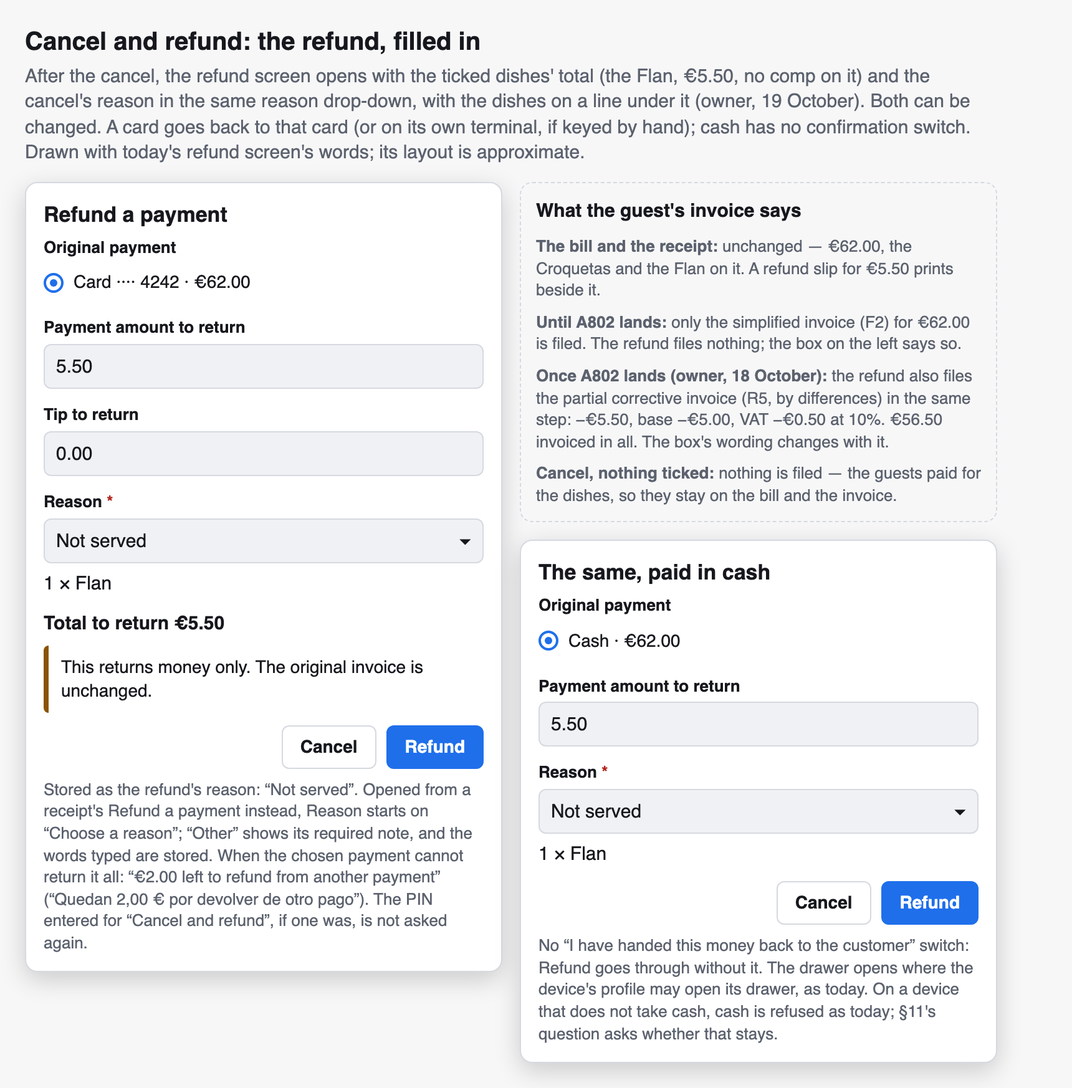
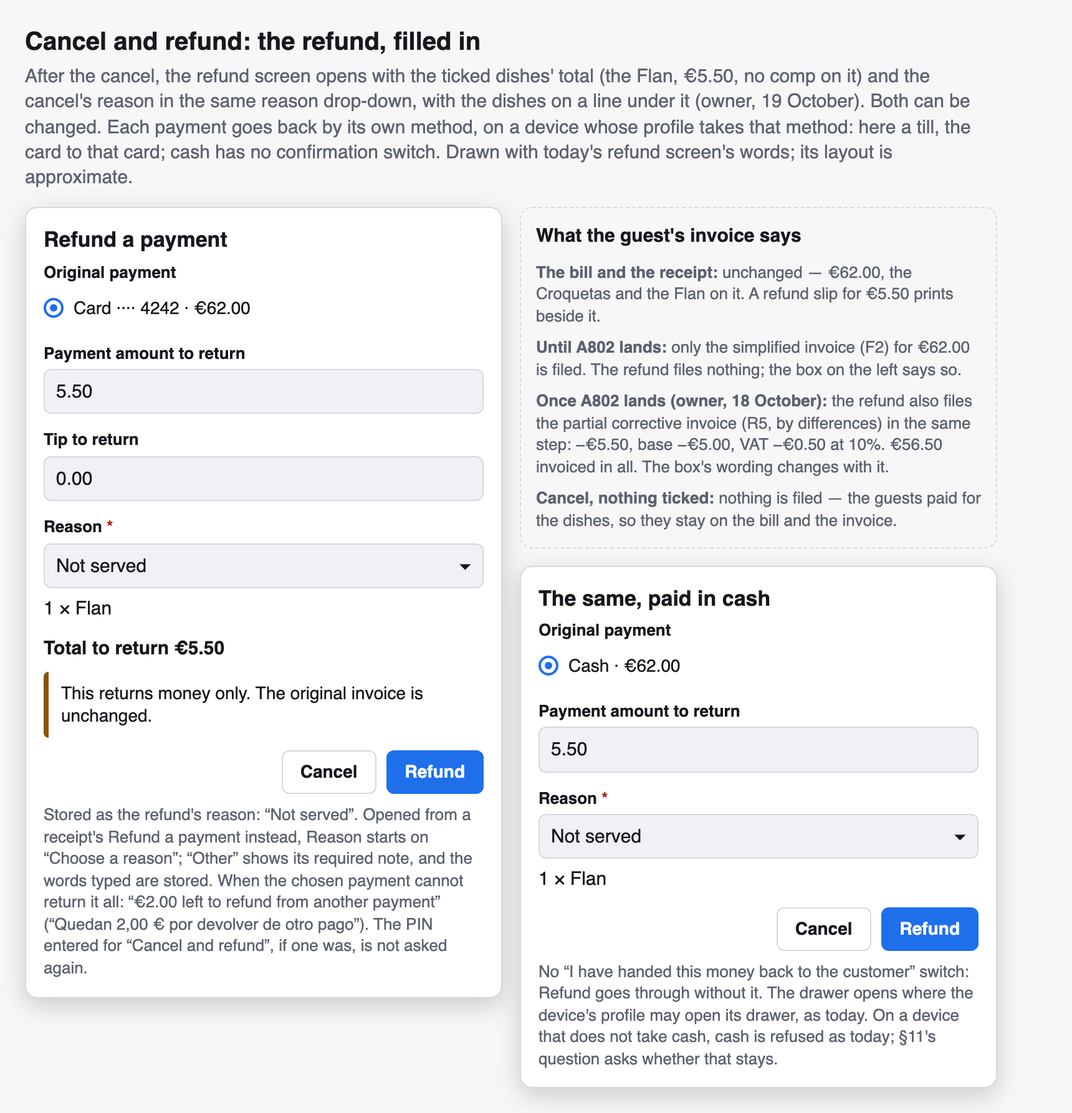
A758 design: review fixes to the refund-on-a-handheld facts and the open question
- A refund goes back by the payment's own method, and the device's profile must take that method:
  this is today's rule for cash and for a card taken on a connected reader, so a seeded handheld
  refuses both and can give back only a card keyed on a separate terminal. Section 3.8.2 now says
  so with a row per method; D20, 3.8 item 3 and the table-4 example no longer imply a handheld can
  do it. The open question stays about cash; the card case is explained, with the profile setting
  a venue turns on.
- Our reading of what a device shows when it cannot give the money back: no Refund ticks, the
  button reads "Cancel", and one line sends the waiter to a till (new English and Spanish words).
- The question is reworded: the owner's words fit the other way, and we say why we still
  recommend today's rule. A second throwaway test confirms the direction: a refund recorded on a
  handheld while the money leaves Caja 1 leaves Caja 1 short by the refund and the handheld over.
- Corrected the note on a refund sent again across the upgrade: it is a resubmission under the
  same request, for cash or card, that would be refused, not a retry by the refund's id.
- Smaller fixes: the drawer job is queued in the refund's own transaction, Luis's PIN where Ana
  needs it, one meaning for "cash figure", more test lines that pin the cash switch.

Picture 08's heading sentence redrawn.

diff --git a/docs/superpowers/specs/2026-10-17-a758-adjustment-reasons-design.md b/docs/superpowers/specs/2026-10-17-a758-adjustment-reasons-design.md
@@ -1,11 +1,12 @@
 # A758 — Voids and comps: the rules, the owner's answers, and a page of their own
 
 Status: **design, revised 2026-10-19 a second time, for the owner's four answers to A758r3's
-question (D23–D26).** Settled and buildable: all of it — the Spanish words (§3.9), no confirmation
-switch on a cash refund (§3.8.2), a fired dish answered No not listed (§3.3, §3.6) and the refund
-screen's Reason drop-down (§3.8 item 3). **One question is open (§11): whether a handheld that does
-not take cash may record a cash refund.** Nothing waits on it except that case of the refund
-screen; today's rule stands until it is answered. Earlier revisions: 2026-10-17, 2026-10-18 and
+question (D23–D26).** Settled and buildable: all of it except §11's one question — the Spanish
+words (§3.9), no confirmation switch on a cash refund (§3.8.2), a fired dish answered No not listed
+(§3.3, §3.6) and the refund screen's Reason drop-down (§3.8 item 3). **The open question (§11):
+whether a handheld that does not take cash may record a cash refund.** The build need not wait:
+today's rule stands until it is answered, and only a cash refund on a device that takes no cash
+would change if the owner chooses the other way. Earlier revisions: 2026-10-17, 2026-10-18 and
 2026-10-19 (the owner's answers to Q21–Q28, Q40 and Q43). Backlog entry: `docs/backlog.md` "A758" and
 [its detail](../../backlog/till.md#a758-adjustment-reasons-review-the-rules-then-a-page-of-their-own).
 Pictures: `docs/backlog/mockups/a758-adjustment-reasons/`, all drawn in HTML with the dashboard's
@@ -67,7 +68,7 @@ revision of 2026-10-19 (§3.8.2, §3.9, §9.1's cash checks, §10 item 5, §11) 
 | D17 | **Finish table on a paid table with dishes not served** cancels every one of them; the only questions are per dish: has preparation started (known for held — No — and for being prepared or ready — Yes; asked Yes / No for fired and not started), and a Refund tick, starting ticked when not started and unticked when started, changeable. The main button reads **"Cancel"** while nothing is ticked and **"Cancel and refund {amount}"** once any is. A third choice, **"They'll collect it at the counter"**, moves the order to the counter to wait (§3.8). "They were served" goes. | Q43 notes, ~23:10 and ~23:40, in place of Q43 (a). "They were served" going is our reading of the ~23:10 flows; say if wrong |
 | D18 | **A refund of a served dish after paying is a separate, intentional action** — Refund a payment on the receipt — not a cancel. The table's Cancel item… on a paid bill is for dishes not yet served; the paid receipt's "Cancel items…" is dropped. | Q43 notes, ~23:10. Dropping the receipt's "Cancel items…", and offering the table's Cancel item… on a paid bill only for dishes not yet served, are our reading of the ~23:10 flows; say if wrong |
 | D19 | **The report** lists every cancelled dish with its reason, who did it, who gave the PIN (if anyone), whether preparation had started, and the amount off the bill (unpaid "Cancel, don't charge": the dish's value; "Cancel, still charge" and any cancel on a paid bill: €0.00, because a filed bill never changes); money given back shows with refunds, linked to the cancel (§3.6). A dish not sent or held, removed from an unpaid bill, is not a cancel (D12), nor is a fired dish answered No (D25). | Q43 (d), approved ~23:25 |
-| D20 | **The refund screen opens filled in** with the ticked dishes' total and the cancel's reason (its shape is D26); card as today, cash without its switch (D24). **Once A802 lands, a refund of cancelled dishes files the corrective invoice in the same step**; until then nothing is filed and the invoice is unchanged. | Q43 (e), approved ~23:35 |
+| D20 | **The refund screen opens filled in** with the ticked dishes' total and the cancel's reason (its shape is D26); each payment goes back by its own method, only on a device whose profile takes that method (§3.8.2), and cash without its switch (D24). **Once A802 lands, a refund of cancelled dishes files the corrective invoice in the same step**; until then nothing is filed and the invoice is unchanged. | Q43 (e), approved ~23:35 |
 | D21 | **A cash refund when the guest has left is not tracked**: no "Is the customer here?", no "cash owed" record. | Q43 notes, ~23:45 |
 | D22 | **One word per meaning.** Unpaid bill: "Cancel, don't charge" (comes off the bill; no money moves). Paid bill: "Cancel and refund" (money goes back). "Refund" only where money is returned. "Station" and "preparation started", never "the kitchen", in every question, label and report column. | Q43 notes, ~23:00 and ~23:30 |
 | D23 | **The Spanish words** are the table in §3.9. The question "Has preparation started?" is **«En preparación»**, answered «Sí» / «No», and the report's column "Preparation started" is also «En preparación». Every other word as A758r3 recommended. The English does not change. | owner, 2026-10-19 ~12:30, A758r3 (a) |
@@ -532,9 +533,11 @@ worktree, not pushed) unless marked **(run)**. "Paid" here means the bill is `se
    Other is: our reading, since the till knows Other only as a reason that asks for a note. The
    change is the till's field, a typed `wt-input` today
    (`apps/till/src/widgets/tender-refund-dialog.ts:301-317`, used at `:411`), and the reasons it
-   reads. The waiter picks the payment as today: a card goes back to that card, or on its own
-   terminal if it was keyed by hand (confirmed with a PIN, `tender-refund-authorization.ts:132-147`);
-   cash has no switch any more, and the drawer opens as §3.8.2 says. When the chosen payment cannot return
+   reads. The waiter picks the payment as today, and it goes back by its own method — a card taken on
+   a connected reader to that card, a card keyed by hand on its own terminal (confirmed with a PIN,
+   `tender-refund-authorization.ts:132-147`), cash from the drawer with no switch — and only on a
+   device whose profile takes that method (§3.8.2, which also says what a device that can give back
+   none of them shows). When the chosen payment cannot return
    it all, the screen fills in what it can and says what is left: "€2.00 left to refund from another
    payment" ("Quedan 2,00 € por devolver de otro pago"). A PIN given for "Cancel and refund" covers
    the refund too, so the screen does not ask again; the refund route already takes an approver's
@@ -651,7 +654,8 @@ off, in the same step as the refund (D20).
 
 Worked example. Table 4, four guests, €62.00 paid by card at 22:10, all at 10% VAT: 2 × Croquetas
 (€7.50 each, €15.00) being prepared, 1 × Flan (€5.50) held and never fired, and €41.50 of other food
-and drink, all served. At 22:12 Ana presses Finish table: "3 dishes not served". The Flan is ticked,
+and drink, all served. At 22:12 Ana presses Finish table on Caja 1, a till whose profile takes card
+payments on its reader: "3 dishes not served". The Flan is ticked,
 the Croquetas are not; the reason starts on "Not served".
 
 | | Cancel (she unticks the Flan) | Cancel and refund €5.50 (the ticks as they come) |
@@ -702,7 +706,8 @@ carries only `manualConfirmed`, `apps/server/src/bill-refunds.ts:52-62`).
 - **The till** draws "I have handed this money back to the customer" («He entregado este dinero al
   cliente», `tender_refund.cash_confirm`, `apps/till/src/i18n/strings.ts:49`, `:1634`) as a
   `wt-switch` for a cash payment (`apps/till/src/widgets/tender-refund-dialog.ts:318-336`) and will
-  not send while it is off (`:228-232`); the draft carries it (`:34`, `:43`, `:160`) and the saved
+  not send while it is off (`:228-232`); a refusal naming it is shown beside it and cleared when it
+  changes (`:197`, `:240`); the draft carries it (`:34`, `:43`, `:160`) and the saved
   attempt too (`apps/till/src/state/tender-refund.ts:45-46`, `:60`;
   `apps/till/src/api/tender-refund-types.ts:10`).
 - **The server also requires it:** a cash refund whose `cashConfirmed` is not true is refused
@@ -714,16 +719,21 @@ carries only `manualConfirmed`, `apps/server/src/bill-refunds.ts:52-62`).
   v26.11.1, `tender-refunds.test.ts:372` ("does not return cash without confirmation") passed.
 - **The build removes all of it on both sides**: the switch, its string in both languages, the
   draft and saved field, the till's check, the server's check, the request field and its parsing.
-  Taking the field out of the fingerprint changes what a stored fingerprint means; the plan says
-  what a card refund left pending across that upgrade does when retried. **Unchanged:** the
+  One case for the plan: a refund recorded before the upgrade whose answer the till never got, sent
+  again by the till with the same request after it, would be refused `submission.id_reused`
+  instead of being answered with the refund already recorded, because the stored request was
+  checked with the switch in it (`tender-refund-reservation.ts:63-69`). This holds for cash and card
+  alike; a retry by the refund's own id checks no such thing (`tender-refund-api.ts:240-294`).
+  **Unchanged:** the
   hand-keyed card's switch, "I have returned this money on the original card terminal"
   (`strings.ts:50`), which the server still requires (`tender-refund-reservation.ts:92`,
   `apps/server/src/tender-refund-authorization.ts:133`).
 
-**What a cash refund does to the drawer today.** Both refund paths complete a cash refund in its own
-transaction and then ask for the drawer:
+**What a cash refund does to the drawer today.** Both refund paths complete a cash refund and queue
+its drawer job in the same transaction (the job is queued with the refund's `tx`,
+`apps/server/src/tender-refunds.ts:117`, `apps/server/src/bill-refunds.ts:676`):
 
-- **Refund a payment** (A758's refund): `tender-refunds.ts:106-118` completes it and calls
+- **Refund a payment** (A758's refund): `apps/server/src/tender-refunds.ts:106-118` completes it and calls
   `enqueueTenderRefundDrawer` (`apps/server/src/receipt-print.ts:618-657`), which queues an audited
   `drawer` job only for a completed cash refund made on this device (`:625-639`), once (`:640-644`),
   and only when `drawerPrinter` finds one (`:645-646`).
@@ -733,15 +743,30 @@ transaction and then ask for the drawer:
 - **`drawerPrinter`** (`receipt-print.ts:66-74`) takes the device's drawer printer — its own drawer
   choice, else its profile's default (`resolveDrawerPrinter`, `:88-97`) — and opens nothing unless
   the profile allows `open-cash-drawer` and that printer has a drawer.
-- **Before either, the device must take cash:** `assertTakesTender` → `assertTakesCash`
-  (`apps/server/src/device-session.ts:380-384`, `:395-404`) refuses `device.cash_not_allowed` when
-  the profile lacks `take-cash` — for Refund a payment at `tender-refund-authorization.ts:122-125`,
-  for Give back a payment at `apps/server/src/bill-payments-api.ts:285-286`. The refund screen lists
-  a cash payment on any device (`tender-refund-dialog.ts:46-50`), so the refusal comes on Refund,
-  in the till's words "This device does not take cash. Take cash at a till."
-  (`apps/till/src/i18n/codes.ts:729-732`).
 
-So, by device:
+**Which device may give back which payment.** A refund goes back by the payment's own method, and
+the device's profile must take that method, the same check as taking the payment
+(`assertTakesTender`, `apps/server/src/device-session.ts:395-402`): cash needs `take-cash`
+(`assertTakesCash`, `:380-384`, refusing `device.cash_not_allowed`); a card taken on a connected
+reader needs `integrated-card-payment` (`:401`, refusing `device.forbidden_action`); a card keyed on
+a separate terminal needs `hand-keyed-card-payment` (`:400`). Refund a payment checks it at
+`tender-refund-authorization.ts:122-125`, with the method from `refundTenderKind` (`:37-69`); Give
+back a payment at `apps/server/src/bill-payments-api.ts:285-286`. The refund screen lists every
+payment on any device (`tender-refund-dialog.ts:46-50`), so today the refusal comes on Refund; for
+cash the till says "This device does not take cash. Take cash at a till." (`apps/till/src/i18n/codes.ts:729-732`).
+
+| The payment | The profile needs | Seeded Counter till | Seeded Handheld |
+|---|---|---|---|
+| Cash | `take-cash`; the drawer opens only with `open-cash-drawer` and a drawer | gives it back; the drawer opens | refused `device.cash_not_allowed` |
+| Card on a connected reader | `integrated-card-payment` | gives it back | refused `device.forbidden_action` |
+| Card keyed on a separate terminal | `hand-keyed-card-payment` | gives it back, with the terminal switch and a PIN | the same |
+
+The seeded profiles are at `packages/layouts/src/device-profile.ts:95-109` (Counter) and `:110-116`
+(Handheld, seeded at `:144-149`); a venue may change either. **(run)** On `ad57a6bb9`, Node
+v26.11.1, `tender-refund-authorization.test.ts:394-414` ("requires the current device's %s tender
+capability") passed for cash, a hand-keyed card and a connected card.
+
+For cash, by device:
 
 | The device's profile | A cash refund today |
 |---|---|
@@ -749,27 +774,47 @@ So, by device:
 | takes cash, no drawer it may open | completes; nothing opens. **(run)** `tender-refunds.test.ts:408` ("completes cash without a drawer job when the profile has no drawer permission") passed on `ad57a6bb9` |
 | does not take cash | refused `device.cash_not_allowed`; nothing is written. **(run)** `tender-refunds.test.ts:380` (its `cash-policy` case) and `tender-refund-api.test.ts:409` (its `cash` case) passed on `ad57a6bb9` |
 
-The seeded Handheld profile takes no cash and opens no drawer
-(`packages/layouts/src/device-profile.ts:110-116`, seeded at `:144-149`); the seeded Counter
-profile does both (`:95-109`). A venue may change either. **So on a handheld as seeded, a cash
-refund is refused today.** The design keeps that rule — CLAUDE.md §5: `take-cash` decides whether a
-device takes cash at all. It fits the owner's words: the cash comes from the drawer, at a till; on
-a handheld the waiter cancels (the cancel stands without the refund, §3.8 item 3), and the cash is
-given back later at a till through the receipt's Refund a payment, which opens the drawer and
-records it — or not at all. That refund is not linked to the cancel, so the Voids and comps entry
-shows no "Refunded". The summary relayed with the answer read the owner the other way ("on a device
-that cannot (a handheld), nothing opens and the refund still goes through"), which is today's
-behaviour only on a device whose profile takes cash and opens no drawer; §11 asks which is meant.
-How the refund screen shows that a device does not give back cash, before Refund is pressed, is the
-plan's.
+**So on a handheld as seeded, a cash refund and a connected-card refund are both refused today;
+only a card keyed on a separate terminal can be given back there.** The design keeps that rule —
+for cash it is CLAUDE.md §5's: `take-cash` decides whether a device takes cash at all. §11's
+question is about cash only, because the owner's answer was. A connected card is not in it: its
+money goes back through the card provider, sent by the server (`apps/server/src/tender-refund-sends.ts:332`),
+not through the device's reader, so the profile check on it is the code's choice — "as a payment
+of it would need" (`bill-payments-api.ts:284`) — rather than something the hardware needs; a venue
+whose handhelds should give card payments back turns on `integrated-card-payment` in their profile,
+which also lets them take card payments on a reader (`apps/till/src/till-app.ts:8449-8452`).
+
+**What a device shows when it cannot give the money back** (our reading, under §11's recommended
+answer). The till knows both sides: its profile's actions (`till-app.ts:8445-8452`) and each
+payment's method and whether it was keyed by hand (`apps/till/src/api/tender-refund-types.ts:15-23`).
+
+- On a device that can give back **none** of the bill's payments, Finish table and the table's
+  Cancel item… on a paid bill show no Refund ticks, the main button reads "Cancel", and one line
+  says **"Give the money back at a till: Refund a payment on the receipt."** («Devuelve el dinero en
+  una caja: Devolver un pago, en el recibo.» — "Devolver un pago" is the receipt's button,
+  `tender_refund.title`, `apps/till/src/i18n/strings.ts:35`, `:1619`, drawn at
+  `apps/till/src/screens/till-ticket-view.ts:909-913`; "recibo" as in «Abrir recibo», `strings.ts:2125`;
+  "caja" as in `codes.ts:731`). No PIN is asked: "Cancel" with nothing ticked needs none (D13), so
+  nobody approves a refund the device would refuse.
+- Where **some** payments can be given back on this device and others not, the ticks work and the
+  refund screen offers only the payments this device can give back. What it cannot cover shows as
+  "€x left to refund from another payment" (§3.8 item 3), followed by the line above. That line's
+  meaning fits — the rest does come from another payment — but alone it would send the waiter to
+  pick that payment here, where it is refused, so the till line follows it.
+- A refund given back later at a till from the receipt is not linked to the cancel, so the Voids
+  and comps entry shows no "Refunded" for it.
+
+The summary relayed with the owner's answer read it the other way ("on a device that cannot (a
+handheld), nothing opens and the refund still goes through"), which today happens only on a device
+whose profile takes cash and opens no drawer; §11 asks.
 
 **Taking the money out later without a refund.** The manual open (`POST /api/drawer/open`,
 `apps/server/src/till-api.ts:2489-2523`) needs the profile's `open-cash-drawer` (`:2495`),
 `cash.drawer` or the PIN of someone who holds it (`:2499-2509`; held from supervisor up,
 `packages/identity/src/permissions.ts:46-55`), and a drawer on the device's drawer printer
 (`:2511-2517`); it records a `drawer_opens` row with the reason `manual` (`receipt-print.ts:398-415`)
-and no amount. It is the way to take out money for a refund already recorded on a device with no
-drawer it may open.
+and no amount. Ana, staff, does not hold `cash.drawer` (staff hold only `sale.take_payment`, `permissions.ts:45`), so she opens it with Luis's PIN. It is the
+way to take out money for a refund already recorded on a device with no drawer it may open.
 
 **The drawer count at cash-up.** Waitron has the day's cash figure, and the arithmetic of a count,
 but no screen that takes a count.
@@ -784,17 +829,22 @@ but no screen that takes a count.
   figure − payouts) as the difference (`:202-209`). **(run)** `git grep -n recordDailyClose -- apps
   ':!*.test.ts'` on `ad57a6bb9` finds only the demo script `apps/server/scripts/daily-close-z-demo.ts`:
   no route or screen takes a count today.
-- **A recorded refund is money out.** **(run)** On `ad57a6bb9`, Node v26.11.1, a throwaway test of
+- **A recorded refund is money out, of the device that recorded it.** **(run)** On `ad57a6bb9`, Node v26.11.1, a throwaway test of
   `recordDailyClose` in `packages/reporting` (kept outside the repository at
   `~/waitron-campaign/a758r4-design/probe.test.ts`): a €62.00 cash sale and a completed €5.50 cash
   refund on one device, float €100.00. Counted €162.00 (the refund never taken out): figure €56.50,
   difference +€5.50. Counted €156.50: difference €0.00. Control, no refund, counted €162.00:
-  figure €62.00, difference €0.00.
+  figure €62.00, difference €0.00. A second throwaway test (`probe2.test.ts`, same place) recorded
+  the refund on a second device instead and counted that device at €0.00: with Caja 1 counted at
+  €156.50 (the money taken out of it), Caja 1's difference was −€5.50 and the second device's
+  +€5.50, the venue's total €0.00; with Caja 1 counted at €162.00, Caja 1 €0.00 and the second
+  device +€5.50. Control, the refund recorded on Caja 1 and counted at €156.50: €0.00.
 
 Worked example. Caja 1 starts the day with a €100.00 float. Table 4 pays €62.00 in cash at Caja 1;
-at Finish table Luis refunds the Flan, €5.50, at Caja 1, and the drawer opens. If he hands the
-€5.50 to the guest, the drawer holds €156.50, as the figure expects. If the guest has gone and the
-€5.50 stays in the drawer, it holds €162.00: **over by €5.50**, the refund's amount.
+at Finish table Luis refunds the Flan, €5.50, at Caja 1, and the drawer opens. Caja 1 should hold
+the float plus the cash taken less the cash refunds: €100.00 + €62.00 − €5.50 = €156.50. If he
+hands the €5.50 to the guest, it holds €156.50. If the guest has gone and the €5.50 stays in the
+drawer, it holds €162.00: **over by €5.50**, the refund's amount.
 
 **Should anything show an untaken refund? Recommended: nothing new.** The owner chose not to track
 whether the cash reaches the guest (D21), and "or not at all" accepts the money staying. A count
@@ -829,6 +879,7 @@ English does not change. Lines are on `main` at `ad57a6bb9`.
 | Choose a reason (the drop-down, empty) | Elige un motivo | the till's (`adjust.reason_required`, `strings.ts:1030`, `:2579`) |
 | €2.00 left to refund from another payment | Quedan 2,00 € por devolver de otro pago | new |
 | Refunded €5.50 (a Voids and comps entry) | Devuelto 5,50 € | new in the report; the till shows «Devuelto: {amount}» for a refunded bill payment (`bill_pay.refunded`, `strings.ts:2975`) |
+| Give the money back at a till: Refund a payment on the receipt. | Devuelve el dinero en una caja: Devolver un pago, en el recibo. | new; our reading (§3.8.2), not yet seen by the owner |
 | Table finished (the pass card) | Mesa cerrada | new; matches «Cerrar mesa» for Finish table (`table.finish`, `strings.ts:2875`) |
 
 The till already says «En preparación» for a dish being prepared (`table.row_preparing`, English
@@ -1045,8 +1096,9 @@ Pins of the cash refund's switch, which go with D24, found with `git grep -n
   `apps/server/src/tender-refund-management.test.ts:167`, `tender-refund-reservation.test.ts:171`,
   `tender-refunds.test.ts:240`, `apps/till/src/state/tender-refund.test.ts:12`,
   `apps/till/src/api/tender-refund-client.test.ts:57`, `tender-refund-dialog.test.ts:72`, `:116`,
-  `:125`, `:166`, `:189`, and the A737 refund helper in `apps/till/src/till-app.test.ts:21875`,
-  which switches it on before submitting.
+  `:125`, `:166`, `:189`; and in `apps/till/src/till-app.test.ts` the A737 refund test's expected
+  request (`:21816`, checked with `toMatchObject` at `:21933`) and its helper, which switches the
+  switch on before submitting (`:21875`).
 
 ---
 
@@ -1151,31 +1203,39 @@ also gave D15, D21 and D22. §3.8.1 answers "if we don't refund, they stay on th
 
 **The one open question: a cash refund on a handheld.**
 
-**Recommended: keep today's rule — cash is given back only on a device that takes cash, such as a
-till, where the drawer opens for it. "Recommended" is a complete answer.** Everything else in A758 is
-settled and buildable; only this case of the refund screen waits.
+**Recommended: keep today's rule — cash is given back only on a device whose profile takes cash,
+such as a till. "Recommended" is a complete answer.** Everything else in A758 is settled and
+buildable; only a cash refund on a device that takes no cash would change if you choose the other
+way.
 
-Today a handheld, as Waitron sets it up, takes no cash, so a cash refund on it is refused with "This
-device does not take cash. Take cash at a till." Your answer said the drawer "can only happen from
-the till, although they could cancel then take the money out later, or not at all". Recommended
-reading: from a handheld the waiter cancels; the cash is given back later at a till, from the
-receipt's Refund a payment, which opens the drawer and records the refund — or not at all. The other
-way: a handheld records the cash refund and nothing opens; the money is taken out later at a till
-with Open drawer, or never. (A handheld whose profile a venue has set to take cash already works
-that other way today.)
+Today a handheld, as Waitron sets it up, takes no cash, so a cash refund on it is refused ("This
+device does not take cash. Take cash at a till."). Your words — "they could cancel then take the
+money out later, or not at all" — fit the other way: the handheld records the refund now, and the
+money comes out of a till's drawer later, or never. We recommend keeping today's rule because the
+day's cash is counted per device, and a refund counts against the device that recorded it. With the
+other way, the till whose drawer actually pays the money out ends the day short by the refund
+against what it should hold, and the handheld, which has no drawer, has to be counted as holding
+minus the refund. It would also have a device that takes no cash giving cash back, against the
+rule that a device's profile decides whether it takes cash.
 
-Worked example. Table 4 paid €62.00 in cash at Caja 1, whose drawer started the day with €100.00.
-Ana, on her handheld, presses Finish table; the Flan (€5.50) is ticked; Luis enters his PIN.
+What the handheld shows under the recommendation: when none of the bill's payments can be given
+back on it, Finish table shows no Refund ticks, its button reads "Cancel", and one line says "Give
+the money back at a till: Refund a payment on the receipt." («Devuelve el dinero en una caja:
+Devolver un pago, en el recibo.»). Nobody is asked for a PIN.
 
-- **Recommended:** the dishes are cancelled and the table finishes; the refund screen refuses cash
-  on the handheld. Ana goes to Caja 1, opens the receipt (Find bill → Transactions) and refunds
-  €5.50 with the reason "Not served"; the drawer opens and she hands the money over. Caja 1's cash
-  figure for the day is €156.50 and its drawer holds €156.50. If she never does it, no refund is
-  recorded, the venue keeps €62.00, and Caja 1 holds €162.00, as its figure says. Either way the
-  Flan's entry in Voids and comps shows no "Refunded", because a refund made later from the receipt
-  is not linked to the cancel.
-- **The other way:** Ana's handheld records the €5.50 refund, linked to the cancel, and nothing
-  opens. The day's cash figure says Caja 1 should hold €162.00 and puts −€5.50 against the handheld.
-  If Ana later takes €5.50 out of Caja 1 with Open drawer, Caja 1 holds €156.50: short by €5.50
-  against its own figure, though the venue's total agrees. If nobody takes it out, the venue is over
-  by €5.50. It also changes the rule that a device's profile decides whether it takes cash.
+Worked example. Caja 1 starts the day with €100.00. Table 4 paid €62.00 in cash at Caja 1. Ana
+(staff), on her handheld, presses Finish table; the Flan (€5.50) was never started.
+
+- **Recommended:** there is no Refund tick; she presses "Cancel", the dishes are cancelled and the
+  table finishes, and the line tells her to give the money back at a till. At Caja 1 she opens the
+  receipt (Find bill → Transactions), presses "Refund a payment", picks "Not served", and Luis
+  enters his PIN; the drawer opens and she hands €5.50 over. Caja 1 should hold €100.00 + €62.00 −
+  €5.50 = €156.50, and it does. If she never does it, no refund is recorded, and Caja 1 should hold
+  and does hold €162.00. Either way the Flan's entry in Voids and comps shows no "Refunded",
+  because a refund made later from the receipt is not linked to the cancel.
+- **The other way:** the Flan is ticked; she presses "Cancel and refund €5.50" and Luis enters his
+  PIN on the handheld; the refund is recorded against the handheld, linked to the cancel, and
+  nothing opens. Caja 1 should hold €162.00, and the handheld −€5.50. If Ana later takes €5.50 out
+  of Caja 1 with Open drawer (Luis's PIN again), Caja 1 holds €156.50: short by €5.50, while the
+  handheld, counted at €0.00, is over by €5.50 — the venue's total agrees, but neither device does.
+  If nobody takes it out, Caja 1 is right and the venue is over by €5.50.
